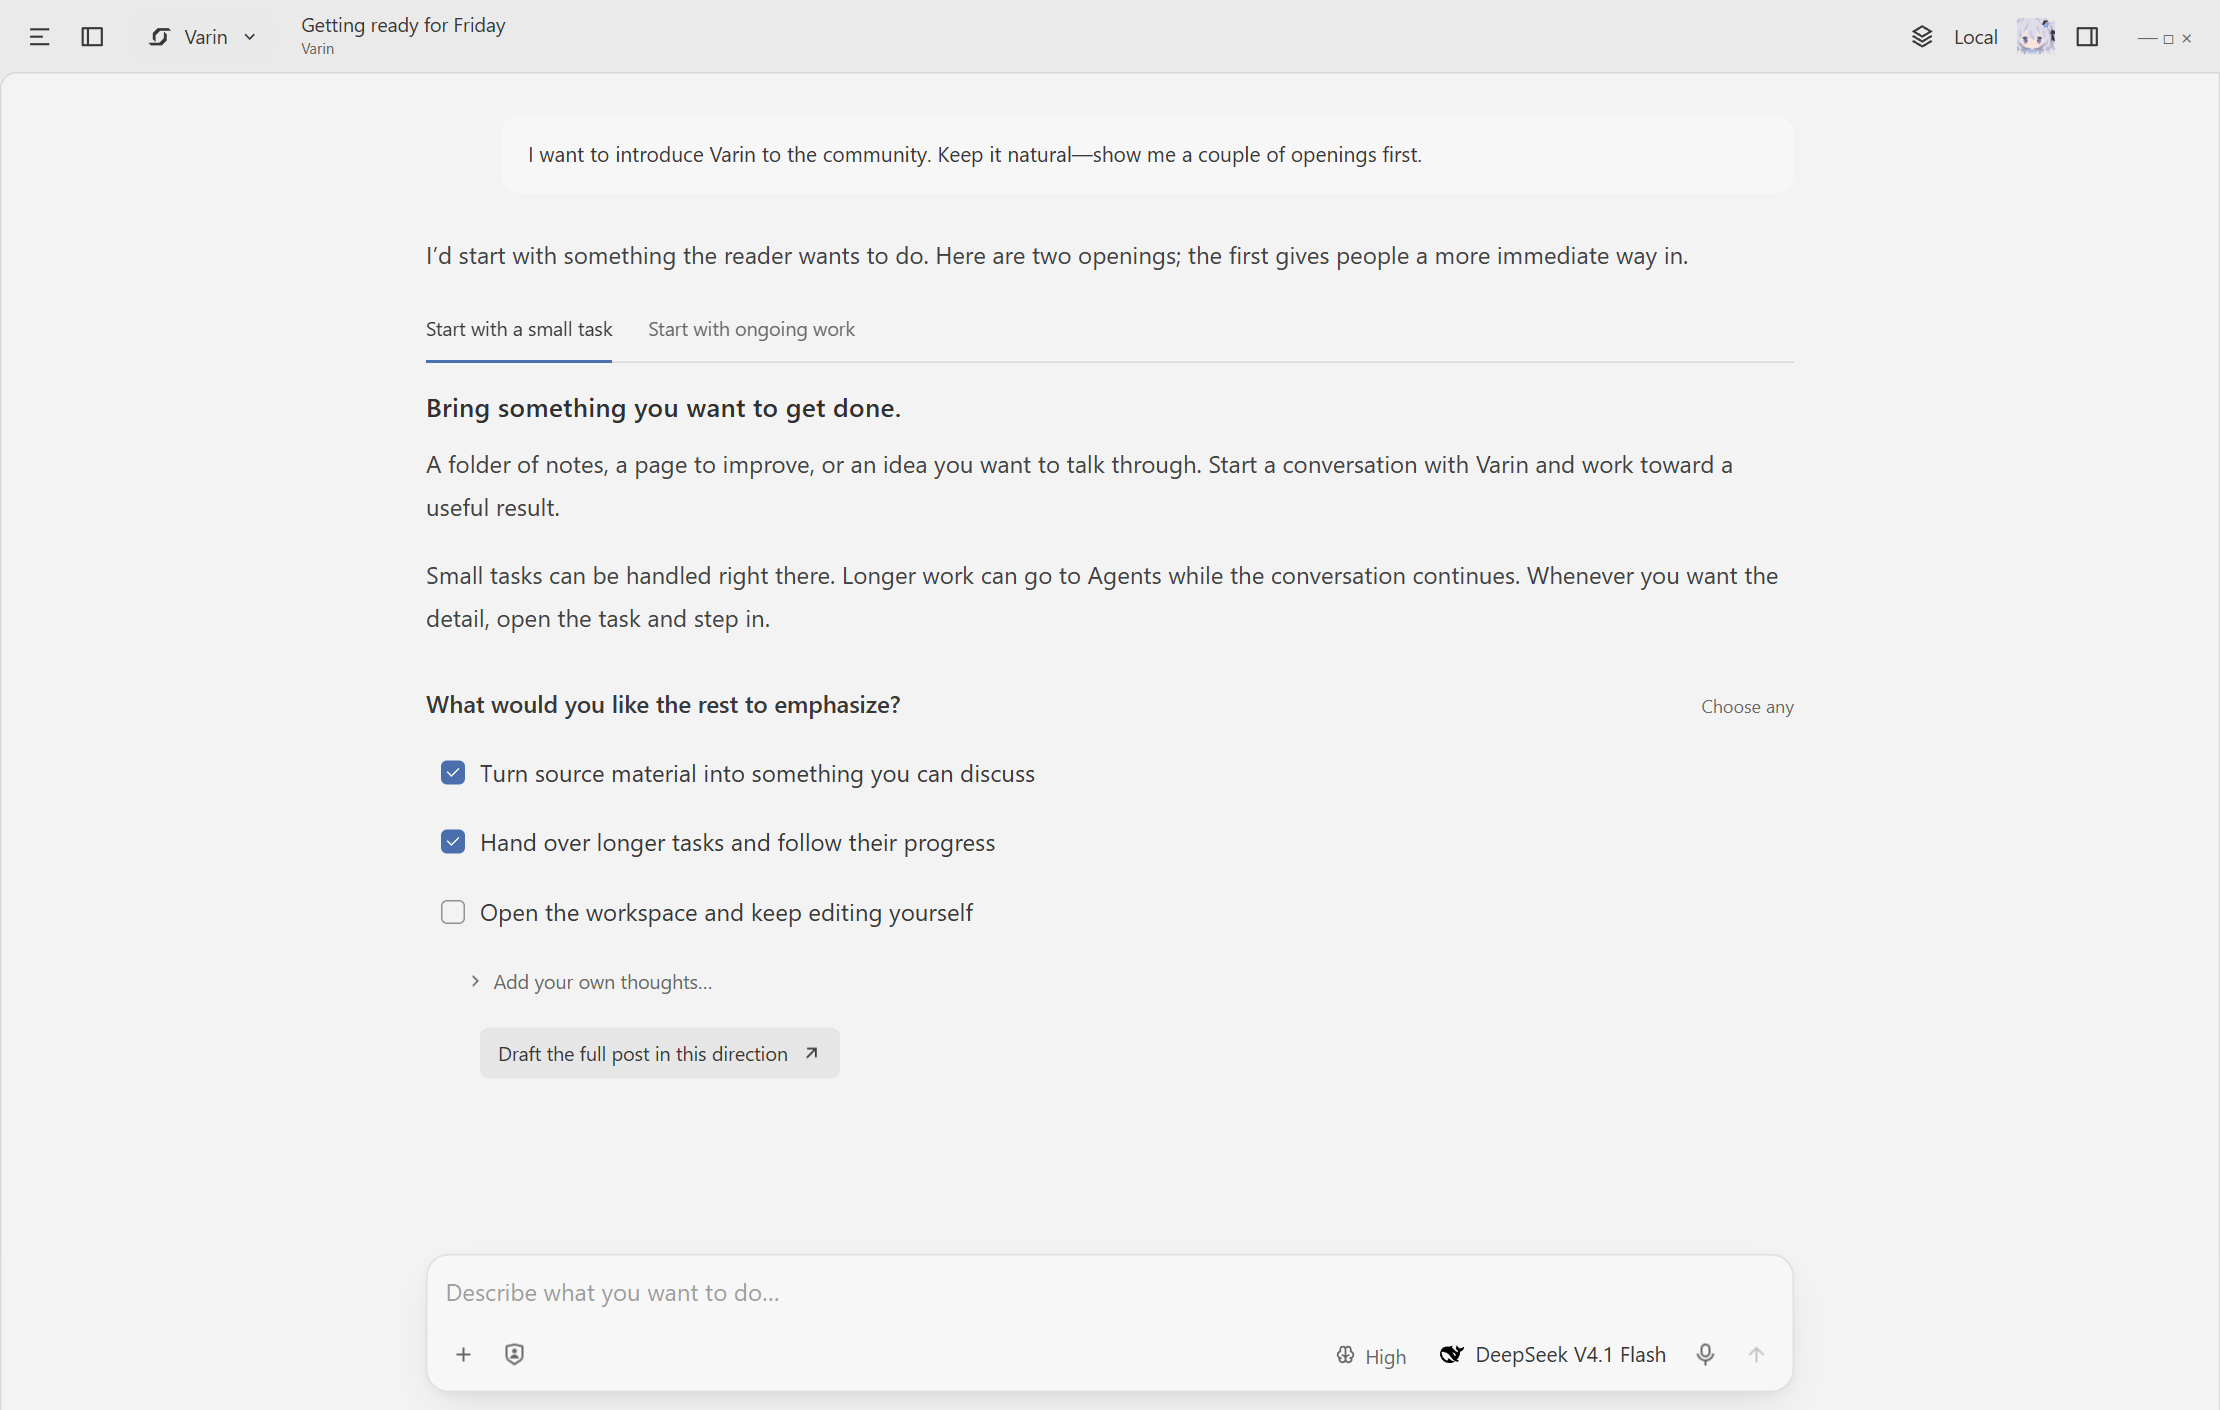
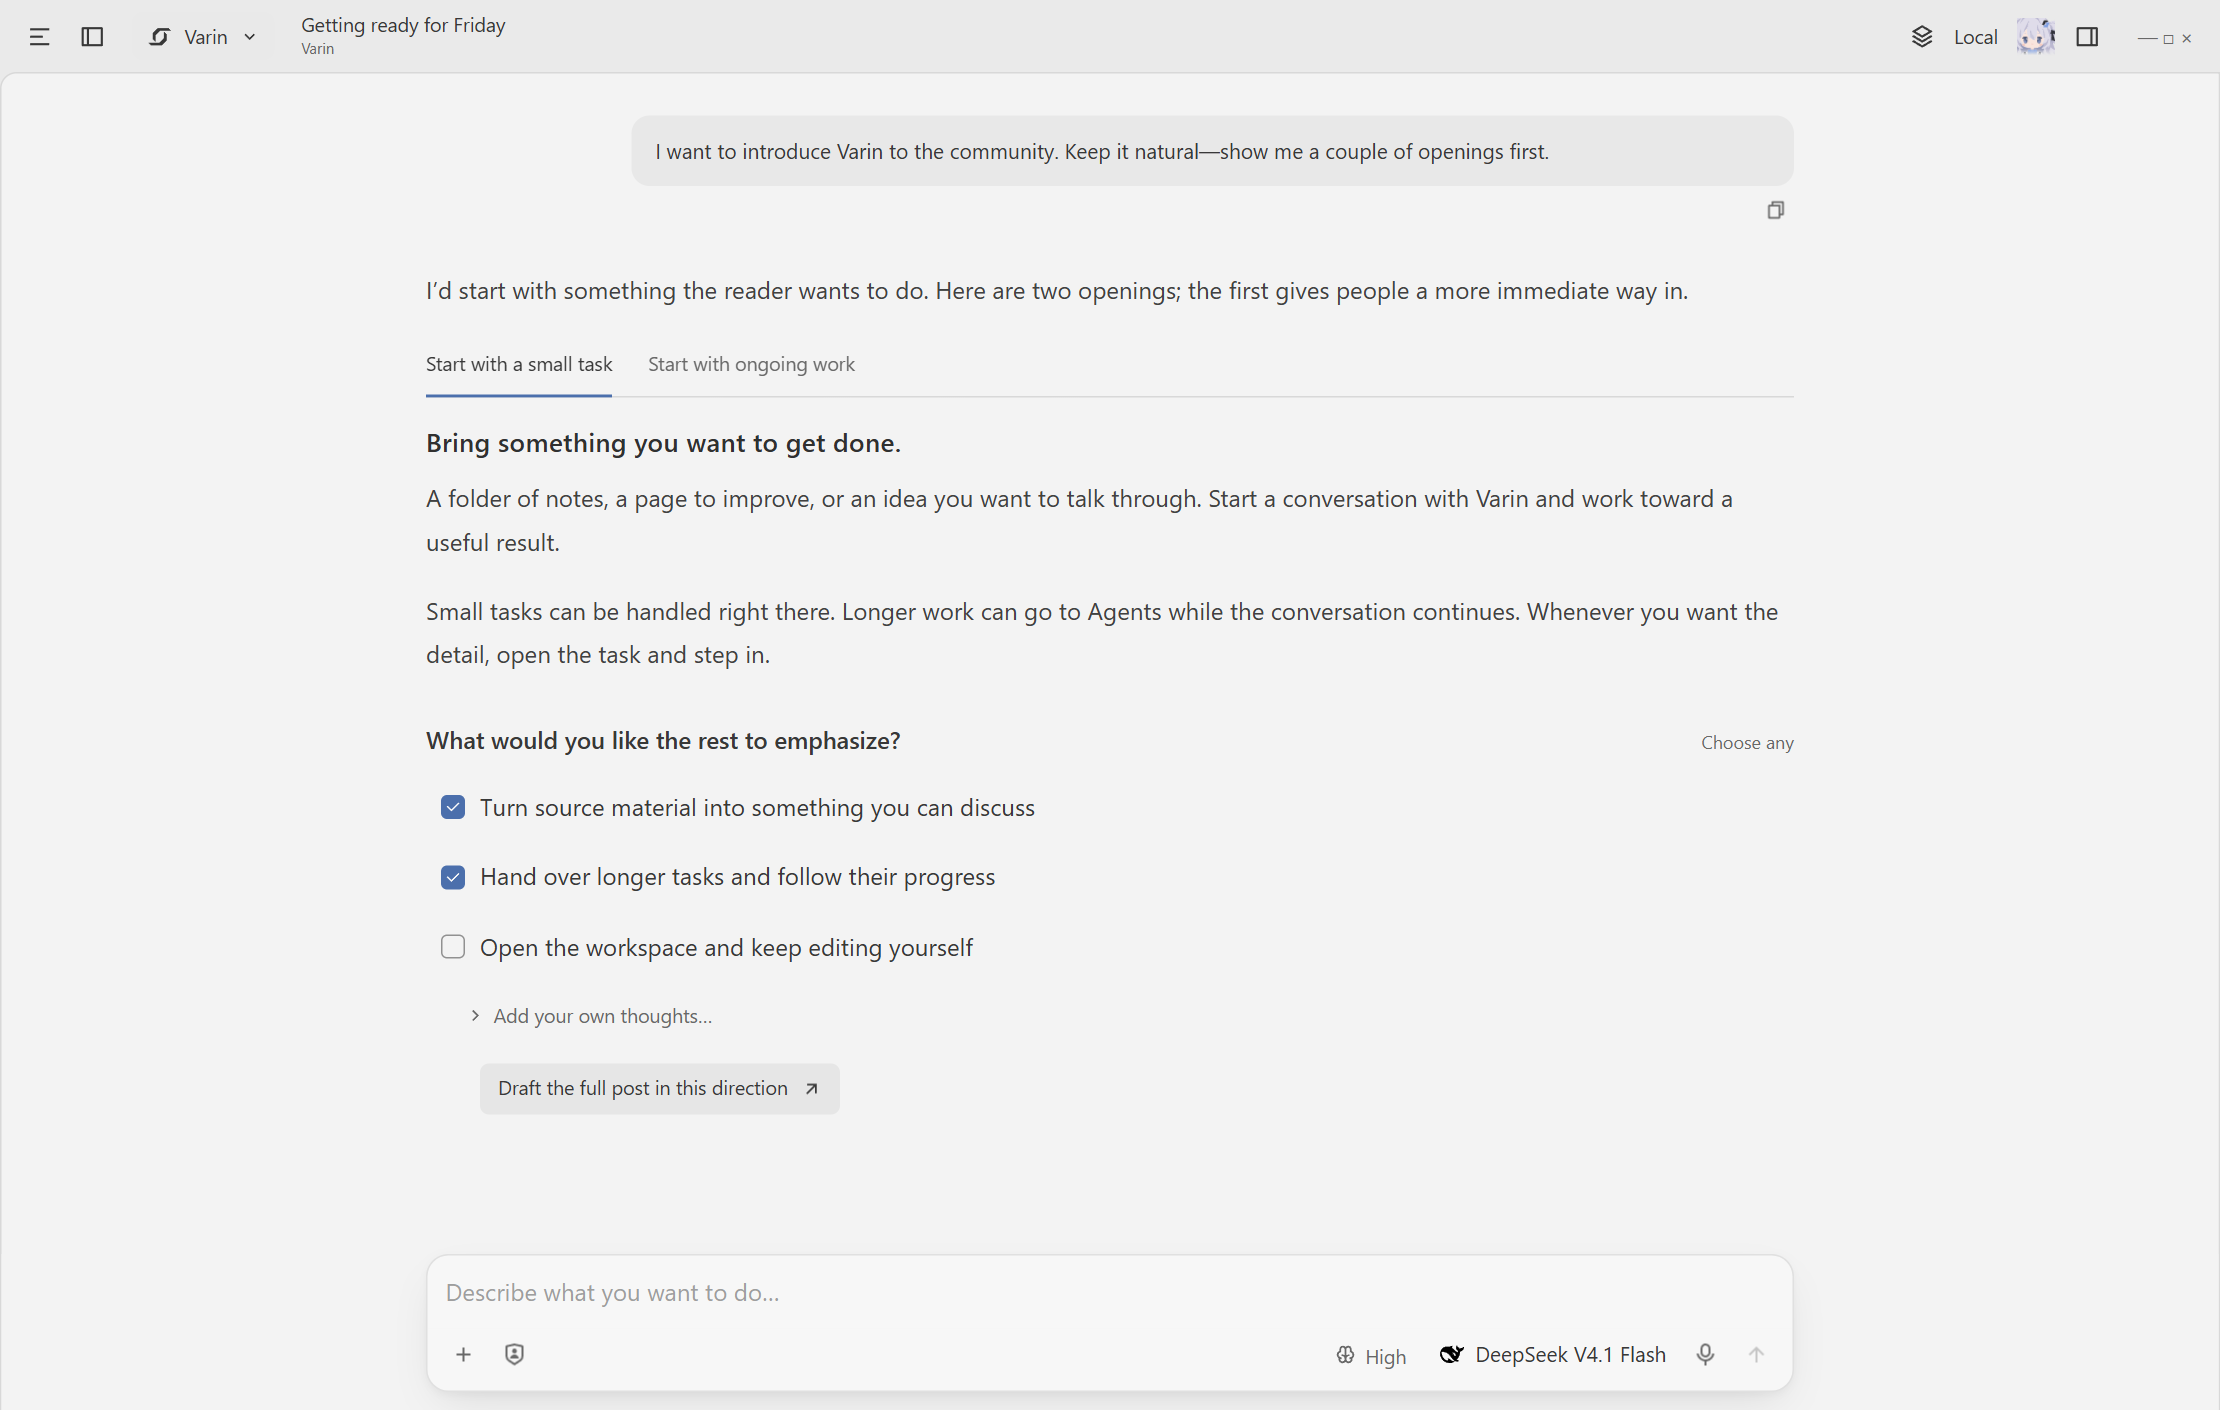
docs: restore chart showcase and render authentic user messages

Changed region(s): [[0.1865, 0.156, 0.8081, 0.7801], [0.2486, 0.0936, 0.6838, 0.1248], [0.777, 0.4993, 0.8081, 0.5305]]

diff --git a/scripts/readme/scenes.tsx b/scripts/readme/scenes.tsx
@@ -20,7 +20,9 @@ import { createThreadsHttpAPI, getRuntimeEndpointGeneration, normalizeConversati
 import { UiWorkView } from '@/components/interactive-ui/InteractiveUiCard';
 import { uiSession } from '@/lib/interactive-ui/sessions';
 import { workEstimateHtml } from './work-estimate.mjs';
+import { feedbackChartHtml } from './feedback-chart.mjs';
 import { ChatDialogueActivity } from '@/components/conversation/ChatDialogueActivity';
+import { ChatTurnUserMessage } from '@/components/conversation/ChatTimelineEntries';
 import type { DialogueProcess } from '@/components/conversation/chatDialogueProjection';
 import type { ChatToolResultMessage } from '@/components/conversation/types';
 import { ThreadComposer } from '@/components/thread/ThreadComposer';
@@ -108,7 +110,9 @@ function Activity({ kind = 'search' }: { kind?: 'search' | 'code' }) {
   const results = new Map(process.activities.map(a => [a.id, { role: 'toolResult', toolCallId: a.id, toolName: '', content: [], details: { status: 'applied' }, isError: false, timestamp: 0 } as ChatToolResultMessage]));
   return <ChatDialogueActivity process={process} executions={{}} results={results} active={false} renderActivity={() => null} />;
 }
-function User({ children }: { children: React.ReactNode }) { return <div className="user-message">{children}</div>; }
+function User({ children }: { children: string }) {
+  return <div className="readme-user-turn"><ChatTurnUserMessage cwd="" message={{ role: 'user', content: children, timestamp: 0 }} /></div>;
+}
 function Files() { return <M>{'[release-notes.md](release-notes.md)'}</M>; }
 function Delegate({ name, id, task, completed = false }: { name: string; id: string; task: string; completed?: boolean }) {
   return <ChatDelegation call={{ type: 'toolCall', id, name: 'dispatch', arguments: { name, task } }}
@@ -165,17 +169,26 @@ function WorkbenchConversation() { return <section className="conversation"><div
   <Delegate completed name={text('Accessibility check', '无障碍检查')} id="accessibility-review" task={text('Keyboard, contrast and narrow layouts', '键盘、对比度和窄屏布局')} />
   <M>{text('The feedback is back: two links need clearer focus styling. I’m applying that before the final review.', '检查结果已经回来了：有两处链接需要更清晰的焦点样式。我正在补上，然后再看一遍最终效果。')}</M>
 </div><Composer bot={false} /></section>; }
-function Estimate() {
-  const session = React.useMemo(() => uiSession('readme-work-estimate', identity, getRuntimeEndpointGeneration()), []);
-  const files = React.useMemo(() => ({ 'index.html': workEstimateHtml(zh) }), []);
-  const source = React.useMemo(() => ({ ref: 'ui:readme-work-estimate@1' }), []);
-  return <UiWorkView session={session} source={source} files={files} entry="index.html" title={text('Weekly document work', '每周材料整理')} committed />;
+function HtmlWork({ id, html, title }: { id: string; html: string; title: string }) {
+  const session = React.useMemo(() => uiSession(id, identity, getRuntimeEndpointGeneration()), [id]);
+  const files = React.useMemo(() => ({ 'index.html': html }), [html]);
+  const source = React.useMemo(() => ({ ref: `ui:${id}@1` }), [id]);
+  return <UiWorkView session={session} source={source} files={files} entry="index.html" title={title} committed />;
 }
 function RichConversation() { return <section className="conversation"><div className="message-flow rich-flow">
   <User>{text('Six of us each process 15 documents a week, about 30 minutes each. If Agents handle some and we review their work, how much time could that free up?', '我们 6 个人，每人每周整理 15 份材料，一份大概半小时。如果交给 Agent 做一部分，我们来检查，能腾出多少时间？')}</User>
   <M>{text('### Review time makes the difference\nThat is **45 hours of human work per week** today. Handing over 60% of the documents and spending 5 minutes reviewing each would free up **22.5 hours**. You can adjust both assumptions below.', '### 关键在于，检查一份还要花多久\n按你给的数量，目前每周需要 **45 小时人工投入**。先按交办 60%、每份检查 5 分钟估算，可以腾出 **22.5 小时**。下面两项都可以调整。')}</M>
-  <Estimate />
+  <HtmlWork id="readme-work-estimate" html={workEstimateHtml(zh)} title={text('Weekly document work', '每周材料整理')} />
   <M>{text('Start with the documents whose format is already stable. A first batch will give you a better review-time estimate before you hand over more.', '可以先从格式稳定的材料开始。做完第一批，用实际检查时间重新算一遍，再决定要交办多少。')}</M>
+  <div className="turn-end"><span><I name="file-copy" /><I name="git-branch" /><I name="more" /></span><small>↓ 8,420 ↑ 1,106 {text('Cache', '缓存率')} 84%</small></div>
+</div><Composer /></section>; }
+function ChartConversation() { return <section className="conversation"><div className="message-flow rich-flow">
+  <User>{text('Which parts of the feedback should shape our introduction? Show me the comparison so we can decide.', '哪些反馈最值得放进简介里？帮我对比一下，我们一起决定。')}</User>
+  <Activity />
+  <M>{text('### Start with a concrete first task\nThe feedback keeps returning to **how to start** and **what a finished result looks like**. I grouped the comments so you can compare the themes.', '### 从一个具体的首次任务开始\n反馈里反复出现的是**如何开始**和**做完是什么样子**。我把提及的主题整理成了一个可以切换查看的图表。')}</M>
+  <HtmlWork id="readme-feedback-chart" html={feedbackChartHtml(zh)} title={text('What people want to find first', '大家希望先看到什么')} />
+  <M>{text('A short walkthrough can cover both: ask Varin a question, refine the answer in the conversation, then open the work when you want more detail.', '一段简短的使用过程就能把两件事讲清楚：向 Varin 提出问题，在对话里完善结果，需要细节时再进入正在做的工作。')}</M>
+  <div className="sources"><I name="file-text" />feedback.csv<I name="global" />{text('Community discussion', '社区讨论')}<I name="arrow-right-s" size={14} /></div>
   <div className="turn-end"><span><I name="file-copy" /><I name="git-branch" /><I name="more" /></span><small>↓ 8,420 ↑ 1,106 {text('Cache', '缓存率')} 84%</small></div>
 </div><Composer /></section>; }
 function ChoiceConversation() {
@@ -218,6 +231,6 @@ function Editor() { const host = React.useRef<HTMLDivElement>(null); React.useEf
     document.body.dataset.editorReady = 'true';
   }); return () => { cancelled = true; editor?.dispose(); }; }, []); return <div className="editor-area"><div className="editor-tabs"><span><I name="file-code" />ReleaseSummary.tsx ×</span><span>release.css</span></div><div ref={host} className="monaco-host" /><div className="terminal"><div>{text('Terminal', '终端')} <span>{text('Problems', '问题')} 0</span></div><pre>$ bun run build<br /><span className="green">✓</span> {text('Build completed', '构建完成')}<br />$ <span className="cursor">▌</span></pre></div></div>; }
 function IdeChat() { return <div className="ide-chat"><div className="panel-heading"><I name="chat-3" />{text('Conversation', '对话')}</div><User>{text('The order looks good. Keep the focus styles consistent with the rest of the site.', '顺序看着不错，焦点样式也和站点其他部分保持一致。')}</User><M>{text('I’ll reuse the existing focus treatment. The content order stays as we agreed.', '我会复用已有的焦点样式，内容顺序保持刚才商量的版本。')}</M><Activity kind="code" /><M>{text('The changes are in `ReleaseSummary.tsx` and `release.css`. You can edit the files here while we keep discussing the page.', '改动在 `ReleaseSummary.tsx` 和 `release.css`。你可以直接在这里编辑，我们继续讨论页面。')}</M><Files /><Composer bot={false} /></div>; }
-export function App() { return <I18nProvider><div className={`readme-app ${scene}`}><Header /><div className="frame-body">{!botScene && <Sidebar />}{scene === 'varin' ? <><VarinConversation /><aside className="bot-area"><BotWorkspaceNavigationContext.Provider value={navigation}><BotPanelBody model={model} /></BotWorkspaceNavigationContext.Provider></aside></> : scene === 'workbench' ? <><WorkbenchConversation /><Collaboration /><ContextPanelRail /></> : scene === 'ide' ? <><Editor /><IdeChat /></> : scene === 'conversation-choices' ? <ChoiceConversation /> : scene === 'conversation-reading' ? <ReadingConversation /> : <RichConversation />}</div></div></I18nProvider>; }
+export function App() { return <I18nProvider><div className={`readme-app ${scene}`}><Header /><div className="frame-body">{!botScene && <Sidebar />}{scene === 'varin' ? <><VarinConversation /><aside className="bot-area"><BotWorkspaceNavigationContext.Provider value={navigation}><BotPanelBody model={model} /></BotWorkspaceNavigationContext.Provider></aside></> : scene === 'workbench' ? <><WorkbenchConversation /><Collaboration /><ContextPanelRail /></> : scene === 'ide' ? <><Editor /><IdeChat /></> : scene === 'conversation-choices' ? <ChoiceConversation /> : scene === 'conversation-reading' ? <ReadingConversation /> : scene === 'conversation-chart' ? <ChartConversation /> : <RichConversation />}</div></div></I18nProvider>; }
 createRoot(document.getElementById('root')!).render(<ThemeSystemContext.Provider value={themeContext}><TooltipProvider><App /></TooltipProvider></ThemeSystemContext.Provider>);
 document.body.dataset.readmeReady = 'true';

diff --git a/scripts/readme/scenes.css b/scripts/readme/scenes.css
@@ -20,7 +20,7 @@ body { margin: 0; font-family: var(--font-sans); color: var(--foreground); backg
 .sub-agent { display: flex; gap: 8px; align-items: center; padding: 10px 0 12px 30px; font-size: 11.5px; color: var(--muted-foreground); }
 .conversation { flex: 1; min-width: 0; display: flex; flex-direction: column; background: var(--background); border-radius: 11px 0 0 0; border: 1px solid var(--border); border-bottom: 0; }
 .message-flow { flex: 1; min-height: 0; padding: 28px 24px 12px; overflow: auto; scrollbar-width: thin; }
-.user-message { margin: 0 0 26px 50px; padding: 14px 18px; background: var(--muted); border-radius: 13px; font-size: 14px; line-height: 1.7; }
+.readme-user-turn { margin-bottom: 26px; }
 .message-flow .dialogue-activity { margin: 20px 0 23px; }
 .composer-wrap { flex-shrink: 0; padding-top: 12px; }
 .spacer { flex: 1; }
@@ -36,10 +36,11 @@ body { margin: 0; font-family: var(--font-sans); color: var(--foreground); backg
 .rich-flow { width: min(100%, var(--chat-content-width, 960px)); margin: 0 auto; padding-top: 28px; }
 .conversation .composer-wrap { width: 100%; }
 .turn-end { display: flex; justify-content: space-between; color: var(--muted-foreground); margin-top: 20px; }.turn-end span { display: flex; gap: 14px; }.turn-end small { font-size: 10px; }
+.sources { display: flex; align-items: center; gap: 10px; margin-top: 16px; color: var(--muted-foreground); font-size: 11px; }.sources svg:not(:first-child) { margin-left: 14px; }
 .choice-flow > .conversation-ui-fragment { margin-block: 18px; }
 .reading-flow .markdown-content h3 { margin-top: 0; }
 .editor-area { flex: 1; min-width: 0; display: flex; flex-direction: column; background: var(--background); border: 1px solid var(--border); }
 .editor-tabs { display: flex; height: 44px; border-bottom: 1px solid var(--border); font-size: 12px; color: var(--muted-foreground); }.editor-tabs span { padding: 12px 18px; display: flex; align-items: center; gap: 8px; }.editor-tabs span:first-child { color: var(--foreground); border-bottom: 1px solid var(--primary-base); }
 .monaco-host { flex: 1; min-height: 0; }.terminal { height: 145px; border-top: 1px solid var(--border); font-size: 12px; padding: 15px 23px; }.terminal span { color: var(--muted-foreground); }.terminal pre { margin-top: 15px; line-height: 1.9; }
 .ide-chat { width: 460px; flex-shrink: 0; background: var(--background); display: flex; flex-direction: column; padding: 0 22px; }
-.ide-chat .panel-heading { margin: 0 -22px 26px; }.ide-chat .user-message { margin-left: 10px; font-size: 13px; }.ide-chat .dialogue-activity { margin: 20px 0; }.ide-chat .composer-wrap { margin-top: auto; margin-inline: -22px; }
+.ide-chat .panel-heading { margin: 0 -22px 26px; }.ide-chat .dialogue-activity { margin: 20px 0; }.ide-chat .composer-wrap { margin-top: auto; margin-inline: -22px; }

diff --git a/README.md b/README.md
@@ -85,6 +85,12 @@ Read, compare, choose and refine a result in the conversation itself.
   <img src=".github/readme/assets/conversation-en.png" alt="A weekly workload estimate with a live comparison chart and two adjustable assumptions, rendered inside the conversation" width="1100" />
 </p>
 
+**Compare findings alongside the explanation.** Charts bring patterns in the source material into view, with the discussion and references in the same conversation.
+
+<p align="center">
+  <img src=".github/readme/assets/conversation-chart-en.png" alt="A feedback comparison chart placed between explanatory paragraphs, with a source filter and references" width="1100" />
+</p>
+
 **Choose and refine without leaving the explanation.** Read alternative drafts in lightweight tabs, select the points to develop and add your own thoughts. Prepare the next message when you are ready to continue.
 
 <p align="center">
